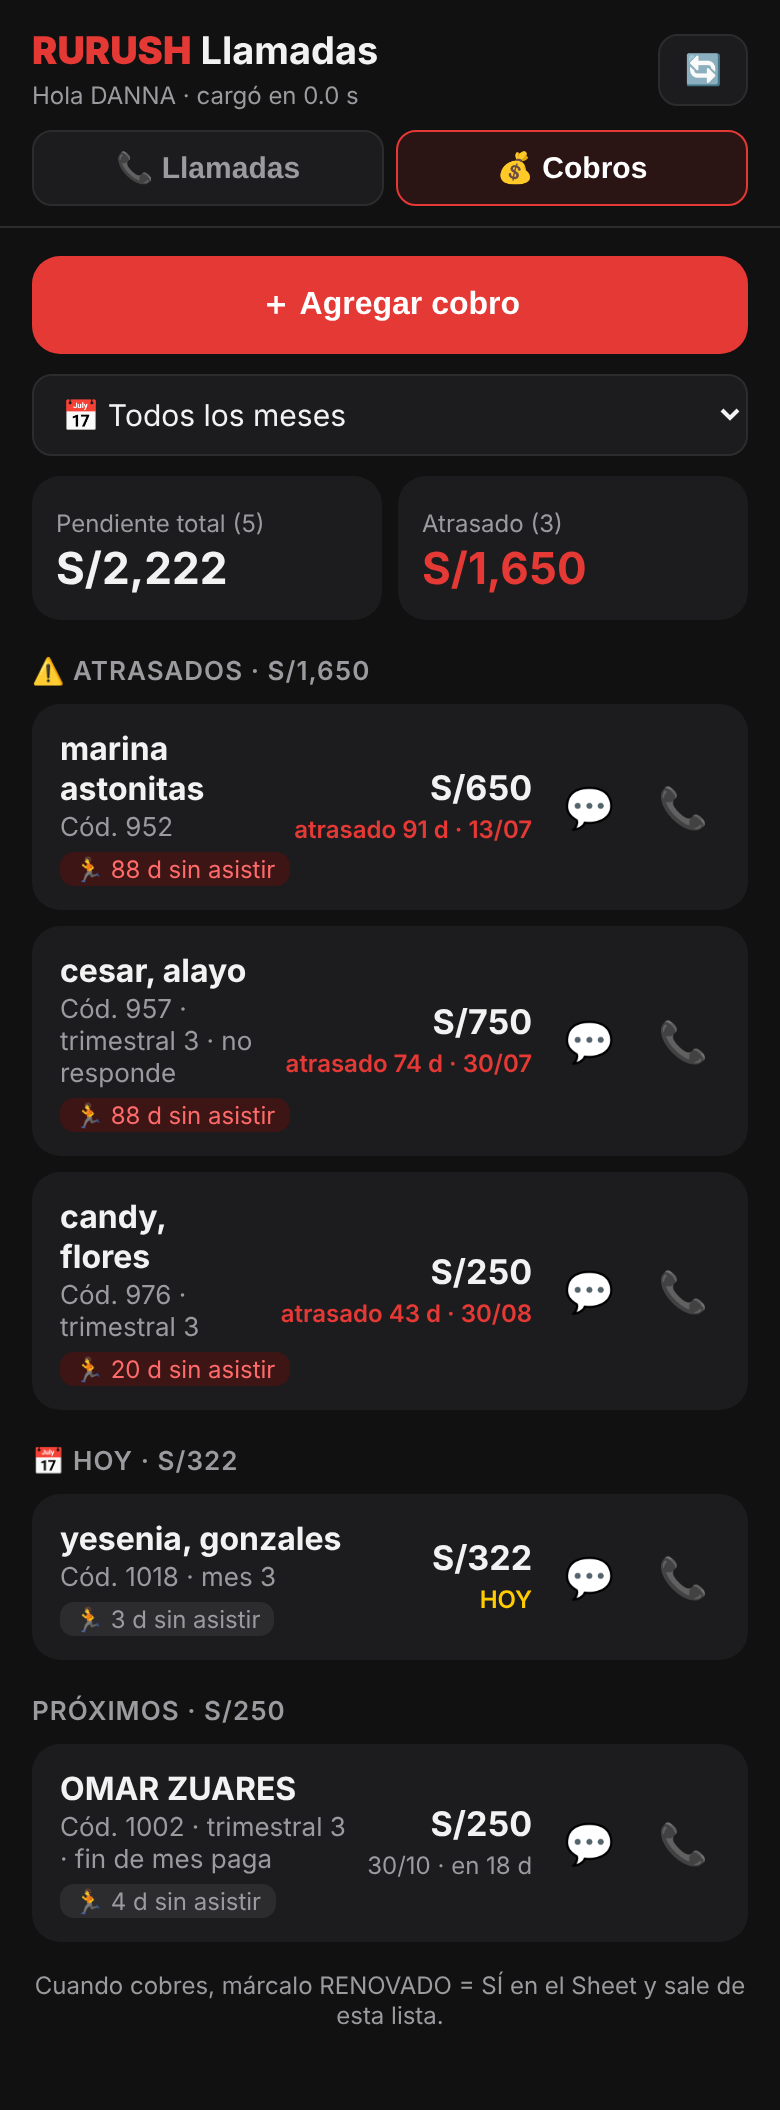
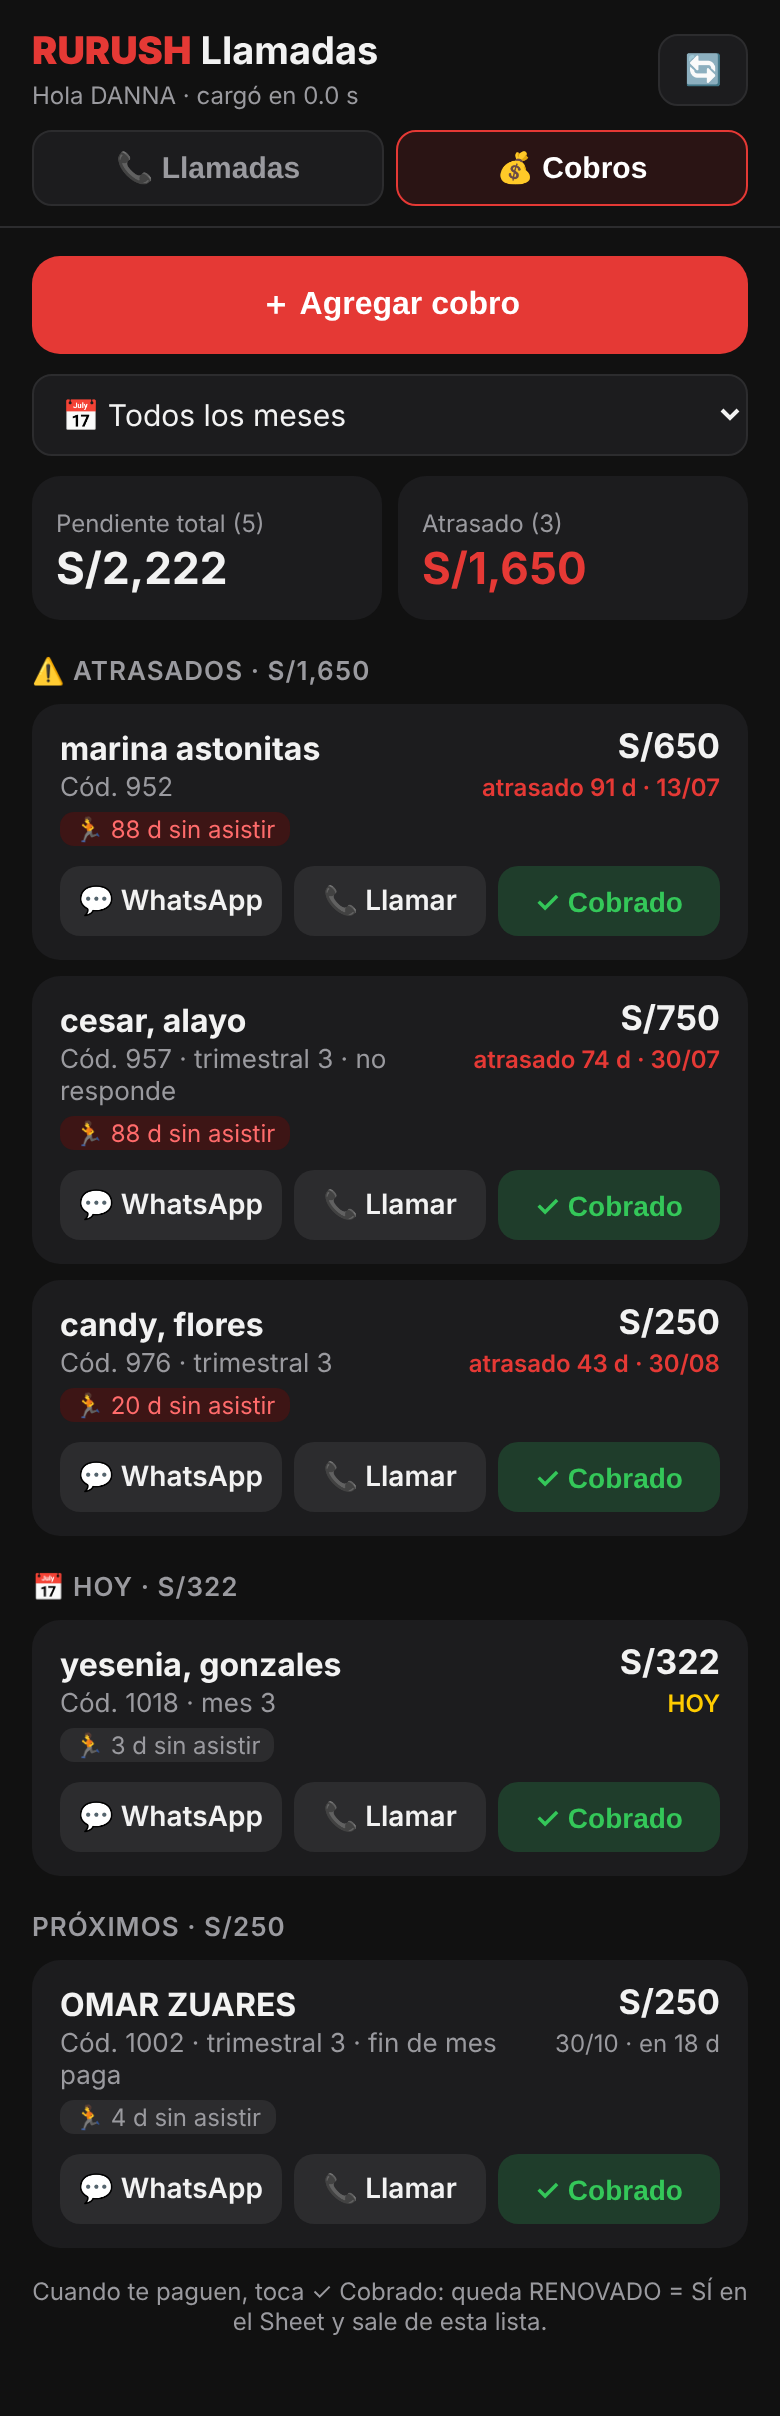
RURUSH Llamadas Cobros: botón ✓ Cobrado (O=SÍ, monto y fecha de pago) y botones en segunda línea; respaldo y corrección del cuadro de COLA RENOVAR
Claude-Session: https://claude.ai/code/session_01S5oX8KX7EUgsAcX1G6oYng

diff --git a/rurush-sheet-scripts/Llamadas.html b/rurush-sheet-scripts/Llamadas.html
@@ -52,11 +52,14 @@
   .totales { display:grid; grid-template-columns:1fr 1fr; gap:8px; }
   .tot { background:var(--card); border-radius:14px; padding:12px; } .tot b { display:block; font-size:22px; margin-top:2px; } .tot span { color:var(--mut); font-size:12px; }
   .tot.atr b { color:var(--red); }
-  .cobro { background:var(--card); border-radius:14px; padding:12px 14px; margin-bottom:8px; display:flex; gap:10px; align-items:center; }
+  .cobro { background:var(--card); border-radius:14px; padding:12px 14px; margin-bottom:8px; }
+  .cobro .arriba { display:flex; gap:10px; align-items:flex-start; }
+  .cobro .btns { display:grid; grid-template-columns:1.15fr 1fr 1.15fr; gap:6px; margin-top:10px; }
+  .cobro .btns a, .cobro .btns button { display:flex; white-space:nowrap; align-items:center; justify-content:center; gap:4px; border-radius:10px; padding:9px 4px; font-size:14px; font-weight:600; text-decoration:none; border:0; background:var(--line); color:var(--tx); }
   .cobro .d { flex:1; min-width:0; } .cobro .n { font-weight:700; word-break:break-word; } .cobro .s { color:var(--mut); font-size:13px; margin-top:2px; }
   .cobro .mt { font-weight:700; font-size:17px; text-align:right; white-space:nowrap; }
   .cobro .f { font-size:12px; color:var(--mut); text-align:right; margin-top:2px; } .cobro .f.atr { color:var(--red); font-weight:600; } .cobro .f.hoy { color:#ffcc00; font-weight:600; }
-  .cobro a { text-decoration:none; font-size:20px; padding:6px; }
+  .cobro .btns .ok { background:#1f3d2b; color:var(--grn); font-weight:700; }
   .nuevo { width:100%; background:var(--red); color:#fff; border:0; border-radius:14px; padding:14px; font-size:16px; font-weight:700; margin-bottom:6px; }
   .buscar { display:grid; grid-template-columns:1fr auto; gap:8px; } .buscar button { background:var(--ice); color:#04121f; border:0; border-radius:12px; padding:0 16px; font-weight:700; font-size:15px; }
   .sa { display:inline-block; white-space:nowrap; margin-top:4px; font-size:12px; padding:1px 7px; border-radius:7px; background:var(--line); color:var(--mut); }
@@ -274,10 +277,11 @@ function traerCobros() {
 function filaCobro(c) {
   const f = c.dias < 0 ? `<div class="f atr">atrasado ${-c.dias} d · ${fechaCorta(c.fecha)}</div>`
     : c.dias === 0 ? '<div class="f hoy">HOY</div>' : `<div class="f">${fechaCorta(c.fecha)} · en ${c.dias} d</div>`;
-  const tel = c.celular ? `<a href="https://wa.me/51${c.celular}" target="_blank">💬</a><a href="tel:+51${c.celular}">📞</a>` : '';
-  return `<div class="cobro"><div class="d"><div class="n">${esc(c.nombre || 'Cód. ' + c.codigo)}</div>
+  const tel = c.celular ? `<a href="https://wa.me/51${c.celular}" target="_blank">💬 WhatsApp</a><a href="tel:+51${c.celular}">📞 Llamar</a>` : '<span></span><span></span>';
+  const ok = `<button class="ok" data-f="${c.fila}">✓ Cobrado</button>`;
+  return `<div class="cobro"><div class="arriba"><div class="d"><div class="n">${esc(c.nombre || 'Cód. ' + c.codigo)}</div>
     <div class="s">Cód. ${esc(c.codigo)}${c.plan ? ' · ' + esc(c.plan) : ''}${c.notas ? ' · ' + esc(c.notas) : ''}</div>${diasSA(c.diasSA)}</div>
-    <div><div class="mt">${soles(c.monto)}</div>${f}</div>${tel}</div>`;
+    <div><div class="mt">${soles(c.monto)}</div>${f}</div></div><div class="btns">${tel}${ok}</div></div>`;
 }
 function pintarCobros() {
   const hoyMes = cobros.hoy.slice(0, 7);
@@ -292,9 +296,34 @@ function pintarCobros() {
     <div class="totales"><div class="tot"><span>Pendiente ${MES_COBRO ? 'del mes' : 'total'} (${l.length})</span><b>${soles(suma(l))}</b></div>
       <div class="tot atr"><span>Atrasado (${atr.length})</span><b>${soles(suma(atr))}</b></div></div>
     ${l.length ? seccion('⚠ Atrasados', atr) + seccion('📅 Hoy', hoyL) + seccion('Próximos', prox) : `<div class="vacio">No tienes cobros pendientes${MES_COBRO ? ' en ' + nombreMes(MES_COBRO) : ''} 🎉</div>`}
-    <div class="tip" style="text-align:center;margin-top:14px">Cuando cobres, márcalo RENOVADO = SÍ en el Sheet y sale de esta lista.</div>`;
+    <div class="tip" style="text-align:center;margin-top:14px">Cuando te paguen, toca ✓ Cobrado: queda RENOVADO = SÍ en el Sheet y sale de esta lista.</div>`;
   $('#nuevoCobro').onclick = formCobro;
+  document.querySelectorAll('.cobro .ok').forEach((b) => b.onclick = () => formCobrado(cobros.lista.find((c) => c.fila === Number(b.dataset.f))));
   $('#mesCobro').onchange = () => { MES_COBRO = $('#mesCobro').value; try { localStorage.setItem('rr_mescobro', MES_COBRO); } catch (e) {} pintarCobros(); };
+}
+// ✓ Cobrado: confirma monto y fecha real (hoy por defecto) → RENOVADO = SÍ en el Sheet.
+function formCobrado(c) {
+  if (!c) return;
+  const hoyIso = cobros.hoy;
+  $('#main').innerHTML = `
+    <h2 style="margin-top:4px">Marcar como cobrado</h2>
+    <div class="card"><div class="nombre">${esc(c.nombre || 'Cód. ' + c.codigo)}</div>
+      <div class="num">Cód. ${esc(c.codigo)} · pactado ${soles(c.monto)} para el ${fechaCorta(c.fecha)}</div></div>
+    <div class="fila2" style="margin-top:12px;color:var(--mut);font-size:12px"><span>Monto cobrado</span><span>Fecha en que pagó</span></div>
+    <div class="fila2" style="margin-top:4px"><input id="montoOk" type="number" inputmode="decimal" min="1" value="${c.monto}"><input id="fechaOk" type="date" value="${hoyIso}"></div>
+    <button class="guardar" id="guardarOk" style="background:#2e9d4f">✓ Confirmar cobro</button>
+    <button class="saltar" id="volverOk">← Volver a mis cobros</button>`;
+  $('#volverOk').onclick = pintarCobros;
+  $('#guardarOk').onclick = () => {
+    const monto = Number($('#montoOk').value), f = $('#fechaOk').value;
+    if (!(monto > 0)) return toast('Pon el monto', true);
+    if (!f) return toast('Pon la fecha', true);
+    $('#guardarOk').disabled = true;
+    google.script.run
+      .withSuccessHandler(() => { toast(`✓ ${c.nombre || c.codigo}: cobrado ${soles(monto)}`); cobros.lista = cobros.lista.filter((x) => x.fila !== c.fila); pintarCobros(); traerCobros(); })
+      .withFailureHandler((e) => { $('#guardarOk').disabled = false; toast(e.message || String(e), true); })
+      .cob_marcarCobrado(LLAVE, c.fila, c.codigo, monto, f);
+  };
 }
 function formCobro() {
   $('#main').innerHTML = `

diff --git a/rurush-sheet-scripts/DASHBOARD_COLA_RENOVAR.md b/rurush-sheet-scripts/DASHBOARD_COLA_RENOVAR.md
@@ -1,0 +1,29 @@
+# Cuadro "DASHBOARD POR ASESOR" — pestaña 2. COLA RENOVAR (VENTAS RETENCIÓN 2026 V2)
+
+## Fórmulas anteriores (respaldo, 12-oct-2026)
+Problema: PROYECCIÓN sumaba solo filas 11-250 y YA COBRADO filas 11-992 → FALTA COBRAR negativo
+(oct-2026 TODOS: 250 / 3,188 / -2,938). Además el día HASTA no entraba si la fecha tenía hora.
+
+- Z5  `=SUMPRODUCT(($K$11:$K$250=IF($AA$3="TODOS",$K$11:$K$250,$AA$3))*ISNUMBER($S$11:$S$250)*($S$11:$S$250>=IF($AD$3="",0,$AD$3))*($S$11:$S$250<=IF($AF$3="",2958465,$AF$3))*IFERROR($N$11:$N$250+0,0))`
+- AC5 `=SUMPRODUCT(($K$11:$K$992=IF($AA$3="TODOS",$K$11:$K$992,$AA$3))*($O$11:$O$992="SÍ")*($S$11:$S$992>=IF($AD$3="",0,$AD$3))*($S$11:$S$992<=IF($AF$3="",99999,$AF$3))*IFERROR($N$11:$N$992+0,0))`
+- AF5 `=Z5-AC5`
+- Z7  `=SUMPRODUCT(($K$11:$K$250=IF($AA$3="TODOS",$K$11:$K$250,$AA$3))*($K$11:$K$250<>""))`
+- AC7 `=SUMPRODUCT(($K$11:$K$250=IF($AA$3="TODOS",$K$11:$K$250,$AA$3))*($O$11:$O$250="SÍ"))`
+- AF7 `=IFERROR(AC7/Z7,0)`
+
+## Fórmulas nuevas
+Todas las filas desde la 8 hasta el final, fecha de cobro (S) entre DESDE y HASTA (día HASTA completo).
+CLIENTES y RENOVADOS ahora también respetan las fechas: clientes = cobros con fecha en el rango,
+renovados = de esos, los que tienen RENOVADO? = SÍ.
+
+- Z5  PROYECCIÓN: `SUMIFS(N, S >= DESDE, S < HASTA+1 [, K = asesor])`
+- AC5 YA COBRADO: lo mismo + `O = "SÍ"`
+- Z7  CLIENTES: `COUNTIFS` con las mismas fechas (y asesor)
+- AC7 RENOVADOS: lo mismo + `O = "SÍ"`
+- AF5 y AF7 sin cambios.
+
+Verificado oct-2026, TODOS: PROYECCIÓN 17,688 · YA COBRADO 5,066 · FALTA 12,622 · CLIENTES 26 ·
+RENOVADOS 7 (26.9 %). Coincide con la suma fila por fila hecha aparte.
+
+Ojo: las fechas escritas como texto en S no cuentan (ej. fila 267 `f30/10/26`, S/750 de MONICA;
+y varias `dd/mm/aaaa` de junio-agosto). Corregirlas a fecha para que entren.

diff --git a/rurush-sheet-scripts/INSTALAR.md b/rurush-sheet-scripts/INSTALAR.md
@@ -67,6 +67,12 @@ La app tiene dos pestañas arriba: **📞 Llamadas** y **💰 Cobros**. Cobros l
   "📱 app ASESORA fecha"). También muestra los **días sin asistir** del socio (columna V / DÍAS S/A):
   gris hasta 7, amarillo 8-14, rojo 15 o más. Las fórmulas de la fila traen el resto, como cuando se escribe a mano.
 
+- **✓ Cobrado:** confirma monto y fecha en que pagó (hoy por defecto) → escribe O = SÍ, N = monto,
+  S = fecha de pago y agrega "✓ cobrado app ASESORA fecha" en T. Así entra en YA COBRADO del cuadro.
+  Antes de escribir verifica que la fila siga siendo ese código y que el cobro sea de esa asesora.
+
+El cuadro DASHBOARD POR ASESOR de esa pestaña se corrigió el 12-oct (ver DASHBOARD_COLA_RENOVAR.md).
+
 Instalar:
 1. **＋ → Secuencia de comandos** → nombre **Cobros** → pega **Cobros.gs** → Ctrl+S.
 2. Pega la versión nueva de **Llamadas.html** → Ctrl+S.
